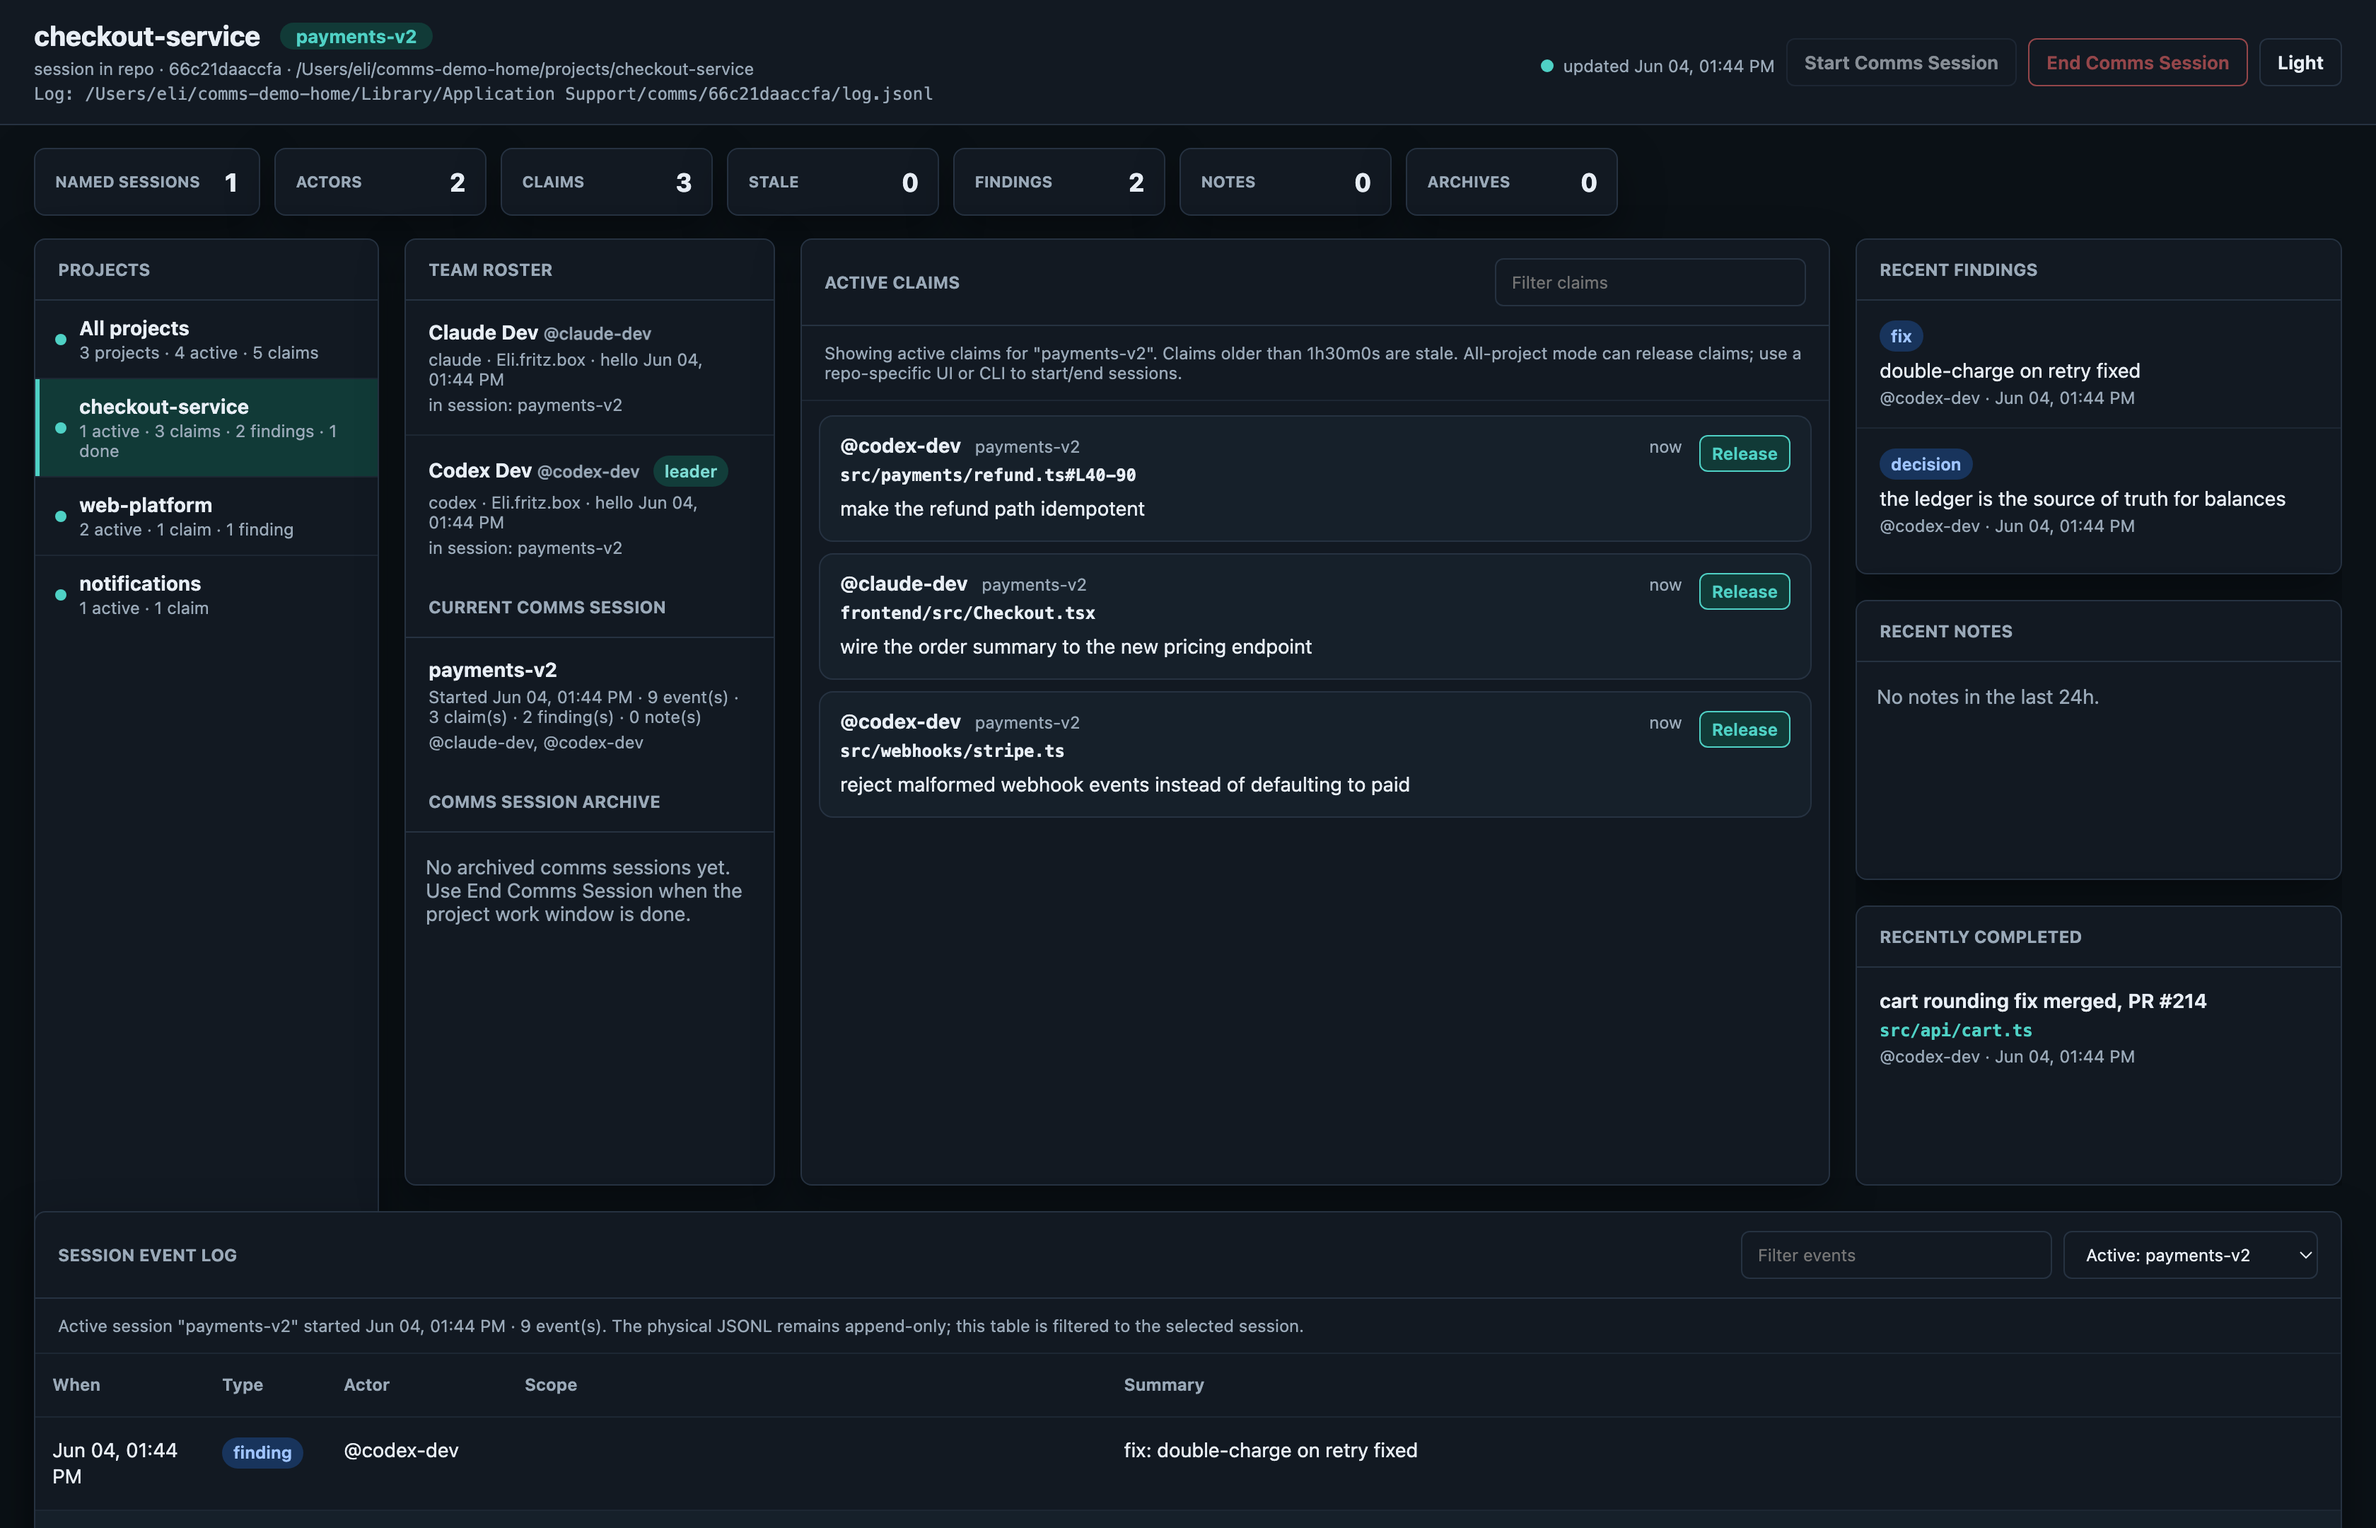
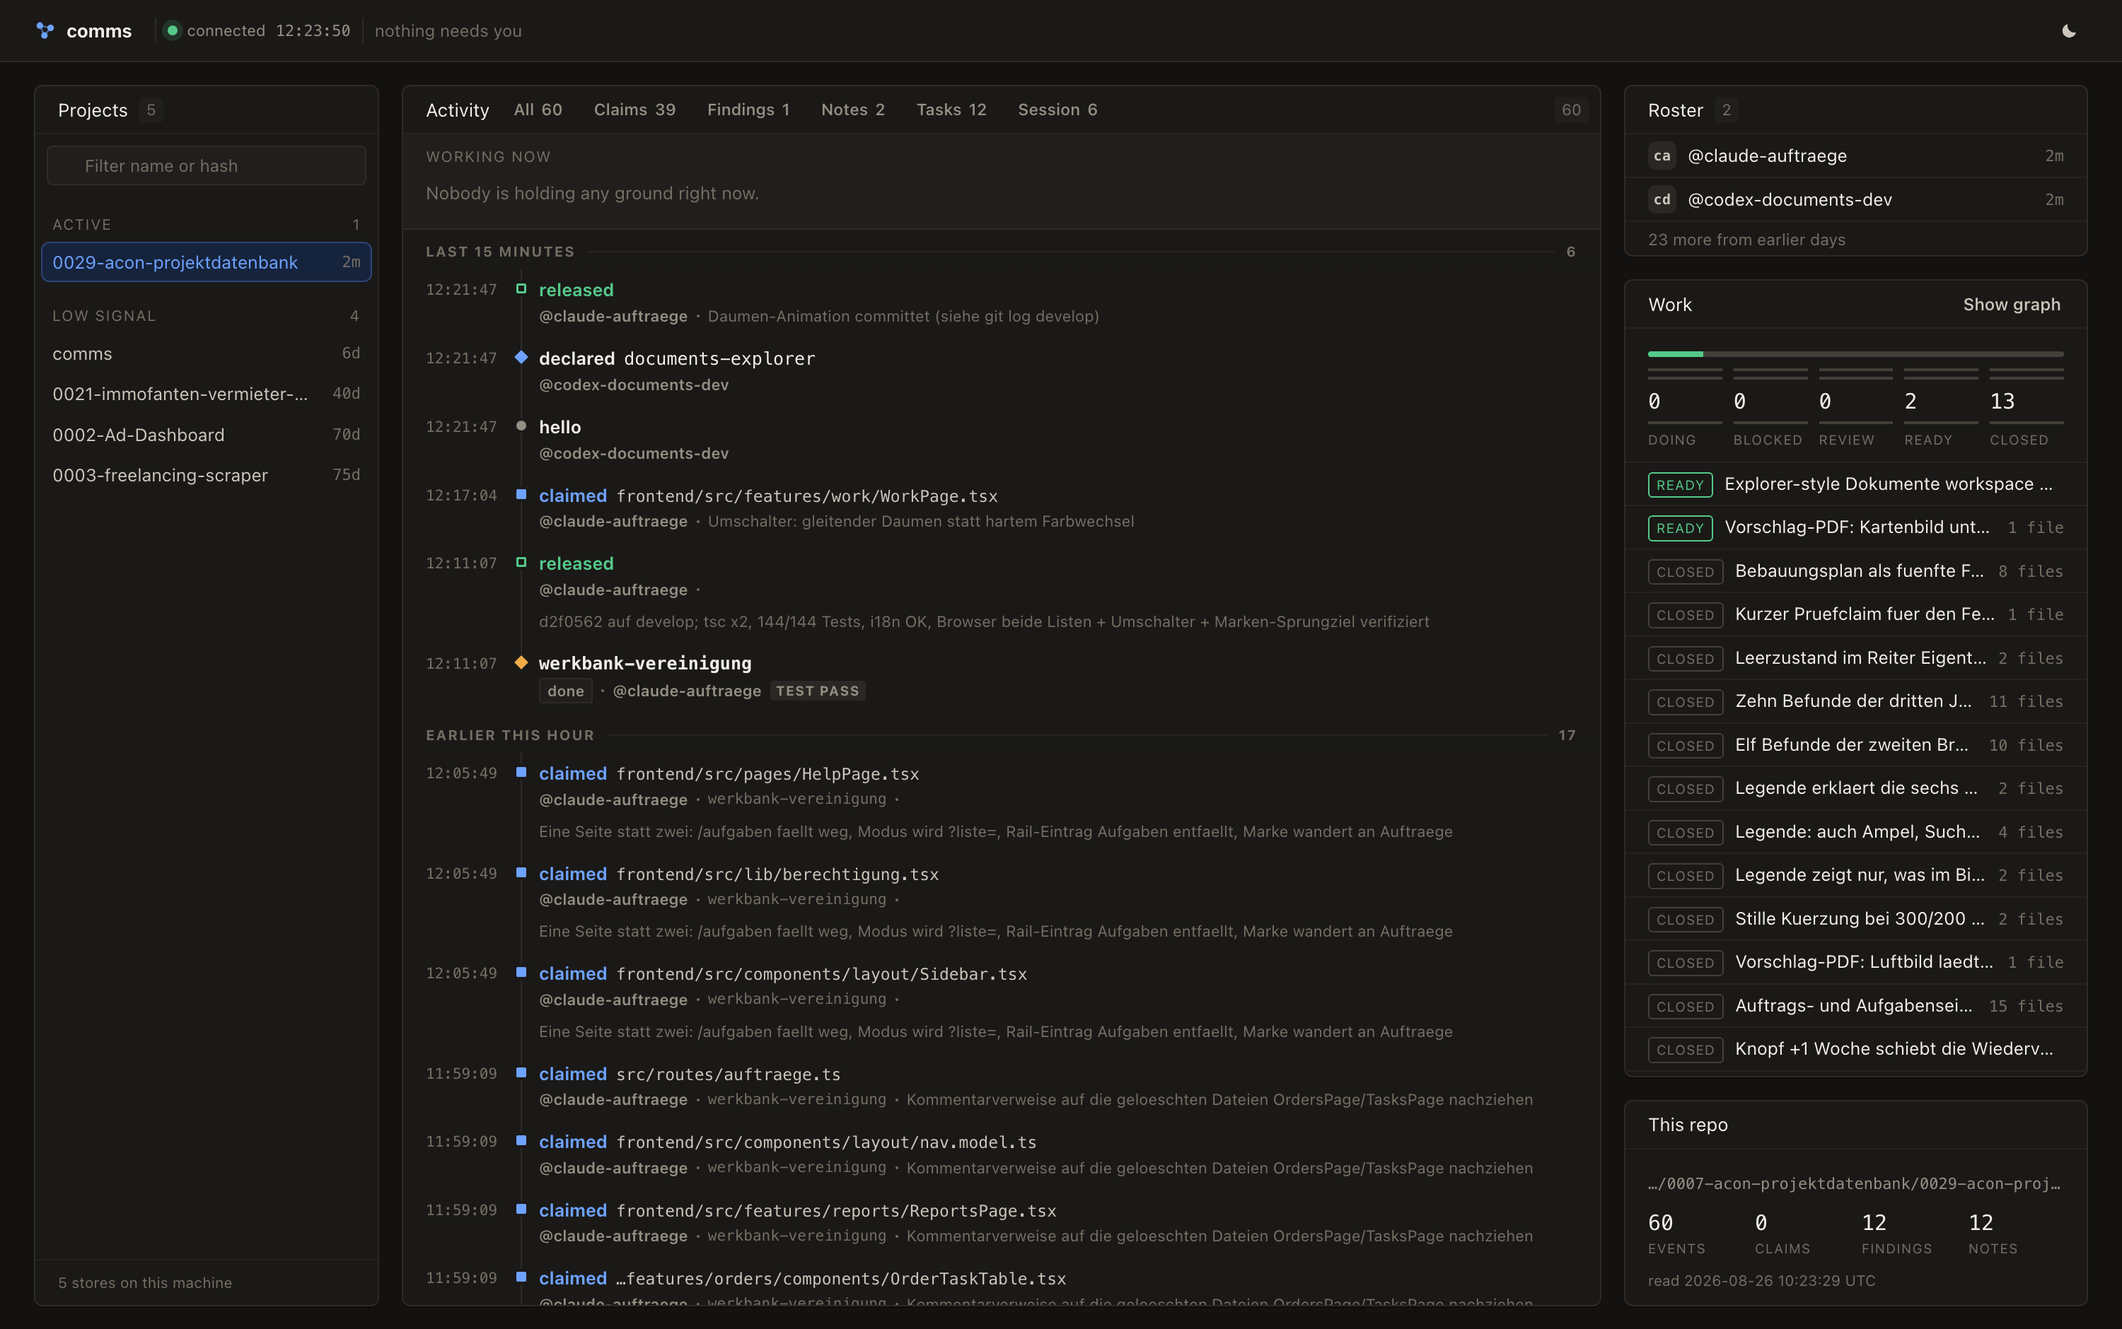
README: a picture of the thing that exists, and what the graphs are for
The screenshot was from June and showed the previous dashboard with demo data —
a project called checkout-service, three invented claims, panels that no longer
exist. Anybody landing on the repo was looking at software we do not ship.

Replaced with the board as it actually is, captured on a live project. Getting
that picture needed a static copy of the page: the board holds a Server-Sent
Events connection open, so headless Chrome never settles and every capture
attempt hung. Inlining one snapshot and stubbing the stream photographs the real
thing rather than a mock.

Adds a hero banner in the same visual language as the other DPA+ repos — dark,
dotted grid, an eyebrow over a large headline — but in the board's own blue and
drawn as what the tool is about: three agents, the edges between them, and a
held file underneath.

The prose was also describing a smaller tool than this now is:

* The primitives table had no Task in it, which is the primitive that changed the
  shape of the thing — a claim says who is on a file, a task says what the work
  is, and tagging claims to it is what lets the board answer "which files did
  this touch" and "whose work sits next to mine".
* A table up front now names the five questions it answers and what answers each,
  because "coordinate parallel agents" does not distinguish this from a lock.
* The flow diagram had no code map in it at all, so the join the tool exists for
  was invisible in the one picture meant to explain how it works.
[…]

diff --git a/README.md b/README.md
@@ -1,28 +1,39 @@
 <div align="center">
 
-<img src="assets/logo.svg" alt="comms logo" width="128" height="128">
-
-# comms
-
-**Coordinate parallel coding agents through one shared, append-only log.**
+<img src="assets/hero.png" alt="comms — agents that do not collide. One append-only log: who holds which file, what work exists, and what it touches in the code." width="100%">
 
 [![CI](https://github.com/dpa-plus/comms/actions/workflows/ci.yml/badge.svg)](https://github.com/dpa-plus/comms/actions/workflows/ci.yml)
-[![Release](https://img.shields.io/github/v/release/dpa-plus/comms?include_prereleases&logo=github&color=0f766e)](https://github.com/dpa-plus/comms/releases)
-[![Go Reference](https://pkg.go.dev/badge/github.com/dpa-plus/comms.svg)](https://pkg.go.dev/github.com/dpa-plus/comms)
-[![License](https://img.shields.io/badge/license-MIT-0f766e)](LICENSE)
-[![Go](https://img.shields.io/badge/Go-1.25+-0f766e?logo=go&logoColor=white)](go.mod)
-[![No daemon](https://img.shields.io/badge/runtime-a%20file%20on%20disk-0f766e)](#how-it-actually-runs-on-your-machine)
-[![No daemon](https://img.shields.io/badge/no-daemon%20%C2%B7%20no%20server-0f766e)](#how-it-actually-runs-on-your-machine)
+[![Release](https://img.shields.io/github/v/release/dpa-plus/comms?include_prereleases&logo=github&color=6ea2ff)](https://github.com/dpa-plus/comms/releases)
+[![License](https://img.shields.io/badge/license-MIT-6ea2ff)](LICENSE)
+[![Go + Python](https://img.shields.io/badge/builds-Go%20%2B%20Python-6ea2ff)](#two-implementations-one-log)
+[![No daemon](https://img.shields.io/badge/runtime-a%20file%20on%20disk-6ea2ff)](#how-it-actually-runs-on-your-machine)
 
 </div>
 
-> **comms is a tiny command-line tool that lets several AI coding agents — and you — work in the same repository at the same time without stepping on each other.**
+Several coding agents in one repository will edit the same file within minutes of
+each other. Not because they are careless — because nothing tells them the file
+is taken. comms is the thing that tells them.
+
+An agent **claims** a file before it edits. A `PreToolUse` hook refuses an edit on
+somebody else's ground. Everything is appended to one file on disk, and every
+view — the board, the task graph, the code map — is read back out of it.
+
+**What that buys you beyond a lock.** Because the log records what each agent was
+doing and which files it took, comms can answer questions a lock cannot:
+
+| Question | Answered by |
+|---|---|
+| Who is holding this file right now? | the log, exactly |
+| What work exists, and is any of it finished? | the task graph |
+| Which files did that task actually touch? | claims tagged `--task` |
+| Whose work sits next to mine in the code? | the task graph joined to the code map |
+| Would this commit take somebody else's work? | `check --staged` |
 
 <p align="center">
-  <img src="assets/dashboard.png" alt="The comms dashboard: team roster, active claims, findings, notes, and one continuous persistent history." width="900">
+  <img src="assets/dashboard.png" alt="The comms board: the activity stream, who is holding which files, the task list with the files each task touches, and every project on the machine down the left." width="900">
 </p>
 
-<p align="center"><em>The board (<code>comms-graph ui</code>): what just happened, who is holding which files right now, the tasks with the files each one touches, and every project on the machine down the left. Everything on it is read out of the append-only log.</em></p>
+<p align="center"><em>The board (<code>comms-graph ui</code>), on a real project. Everything on it is read out of the append-only log — it writes nothing except one deliberate button.</em></p>
 
 ---
 
@@ -45,14 +56,21 @@ These are the classic problems of people working in parallel — and the classic
 
 | Primitive | What it's for | Example |
 |---|---|---|
-| **Claim** | "I'm working on this file — hands off." | `comms claim "src/auth.ts" --intent "fix JWT expiry"` |
-| **Finding** | A durable fact: a bug, a fix, a decision, a gotcha, a release. | `comms find decision "tracker is source of truth for leads"` |
-| **Note** | A short, throwaway heads-up. | `comms note "FYI: schema migration coming next"` |
-| **Session** | A named work window that groups claims/events and can be archived. | `comms session start "dashboard fixes"` |
-| **Doc** | A small per-repo wiki under `.comms/docs`. | `comms doc tracker-architecture` |
-| **Lesson** | Cross-project knowledge that outlives any one repo. | `comms lesson verify-data-before-ui` |
+| **Claim** | "I'm working on this file — hands off." Several at once is atomic. | `comms-graph claim src/auth.ts src/login.ts --intent "rework auth"` |
+| **Task** | What the work IS. Claims tagged to it become its file list. | `comms-graph task add auth-api --title "Session create/refresh"` |
+| **Finding** | A durable fact: a bug, a fix, a decision, a gotcha, a release. | `comms-graph find decision "tracker is source of truth for leads"` |
+| **Note** | A short, throwaway heads-up. | `comms-graph note "FYI: schema migration coming next"` |
+| **Session** | A named work window that groups claims/events and can be archived. | `comms-graph session start "dashboard fixes"` |
+| **Doc** | A small per-repo wiki under `.comms/docs`. | `comms-graph doc tracker-architecture` |
+| **Lesson** | Cross-project knowledge that outlives any one repo. | `comms-graph lesson verify-data-before-ui` |
 
-Before an agent edits a file it **claims** it. Before it forgets a decision it records a **finding**. Another agent (or you) runs `comms status` and instantly sees the whole picture. The first active participant becomes a lightweight **leader** whose only extra power is pinning `--priority` notes to the top.
+**Task is the one that changed the shape of the thing.** A claim says who is on a
+file; a task says what the work is, and tagging your claims to it (`--task
+<slug>`) is what lets the board answer "which files did this touch" and "whose
+work sits next to mine". It costs one flag on a command you were running anyway,
+and it is the only bookkeeping here that is not derived for you.
+
+Before an agent edits a file it **claims** it. Before it forgets a decision it records a **finding**. Another agent (or you) runs `comms-graph status` and instantly sees the whole picture. The first active participant becomes a lightweight **leader** whose only extra power is pinning `--priority` notes to the top.
 
 ---
 
@@ -76,14 +94,14 @@ your-repo/.comms/                         ← committed to git (shared design)
 
 > The per-machine log lives outside iCloud on purpose — iCloud Drive forks files that two processes append to at the same time, which would corrupt the log.
 
-**Every command is the same tiny dance.** When an agent runs `comms claim …`:
+**Every command is the same tiny dance.** When an agent runs `comms-graph claim …`:
 
 1. The binary **starts**, figures out which repo you're in, and finds that repo's `log.jsonl`.
 2. It grabs the **file lock** (so two agents can't write at the same instant).
 3. It **appends one line** — a JSON event — to the end of the log.
 4. It **releases the lock and exits.**
 
-That's it. A `comms` command is a short-lived program that opens a file, appends a line, and quits. Reading state (`comms status`) just replays the log — no lock needed.
+That's it. A `comms` command is a short-lived program that opens a file, appends a line, and quits. Reading state (`comms-graph status`) just replays the log — no lock needed.
 
 The dashboard reads those same files into **one continuous persistent history**.
 Selecting a project filters the timeline without changing or hiding its stored
@@ -95,8 +113,10 @@ flowchart LR
     A["Claude<br/>(comms claim …)"] -- append --> L[("log.jsonl<br/>append-only<br/>+ file lock")]
     B["Codex<br/>(comms find …)"] -- append --> L
     C["You<br/>(comms note …)"] -- append --> L
-    L -- replay/read --> D["comms status"]
-    L -- watched live --> U["comms ui<br/>(dashboard)"]
+    L -- replay/read --> D["comms-graph status"]
+    L -- watched live --> U["comms-graph ui<br/>(the board)"]
+    L -- joined to --> G[("graphify-out/graph.json<br/>the code map")]
+    G -- which tasks meet --> U
 ```
 
 ---
@@ -105,14 +125,14 @@ flowchart LR
 
 Here's the key idea: **the agents never talk to each other directly.** There's no chat, no messages flying between them, no network connection. They communicate the way a team uses a shared whiteboard:
 
-- **Agent A writes to the board.** `comms claim "aggregate.ts"` appends a *claim* event to the log.
-- **Agent B reads the board.** `comms status` replays the log and sees A's claim — so B knows to work elsewhere.
+- **Agent A writes to the board.** `comms-graph claim aggregate.ts` appends a *claim* event to the log.
+- **Agent B reads the board.** `comms-graph status` replays the log and sees A's claim — so B knows to work elsewhere.
 - **Conflicts are caught by reading, not messaging.** If B tries to claim a file that overlaps A's claim, comms sees the overlap in the log and tells B to back off.
-- **Stale claims can be taken over.** A claim goes **stale after 1 hour idle** — its holder is presumed gone. The `BLOCKED` message says so, and B can steal a stale claim directly (`comms claim … --steal <id>`, no `--reason`). A still-active claim (held < 1h) requires the user's confirmation and a `--reason` to steal.
+- **Stale claims can be taken over.** A claim goes **stale after 1 hour idle** — its holder is presumed gone. The `BLOCKED` message says so, and B can steal a stale claim directly (`comms-graph claim … --steal <id>`, no `--reason`). A still-active claim (held < 1h) requires the user's confirmation and a `--reason` to steal.
 
 The log is the single source of truth. It's **append-only**, so history is never rewritten — you can always see exactly who did what and when. This "shared ledger" model is what makes coordination reliable without any of the agents needing to know the others exist. They only need to know about **the log**.
 
-The dashboard (`comms ui`) is simply a **live read-only view** of that same log.
+The board (`comms-graph ui`) is simply a **live read-only view** of that same log.
 
 ---
 
@@ -297,7 +317,8 @@ launchctl kickstart -k "gui/$(id -u)/plus.dpa.comms-ui"  # if installed as a log
 - **uuid-free, dependency-light.** The core is the Go standard library plus a CLI framework, a ULID generator, and a file watcher.
 - **Append-only + `flock`.** Writes are serialized by a per-repo file lock; the log is never rewritten, so history and audit are free.
 - **Recoverable by design.** Blank lines are skipped, a torn final line is ignored, duplicate event IDs are dropped — a half-written line never breaks a read.
-- **Opt-in, not enforced.** comms suggests and records; it doesn't block your editor. A `PreToolUse` hook (`comms check`) can warn before an agent touches a claimed path, and `comms check --staged` can stop a commit when its Git index contains another actor's claimed files.
+- **Enforced, not suggested — if you wire the hook.** Nothing installs itself. But a `PreToolUse` hook running `comms-graph check --stdin-json` REFUSES an Edit or Write on somebody else's ground: it exits 2, which is the only code Claude Code treats as "block this tool call". It fails closed, and it spells paths the way the filesystem does, so two agents cannot hold one file under two capitalisations of its name.
+- **The hook cannot see Bash.** An edit made with `sed`, a heredoc or a one-liner never reaches it — and in agent auto-modes Bash is the documented default, so this is the normal case rather than a corner. Measured on one real session: ~35 edits, the hook fired zero times. `comms-graph check --staged` in a git `pre-commit` hook is the backstop that a heredoc cannot argue with, and it refuses a commit whose index holds another actor's claimed files.
 
 More in [`docs/DESIGN.md`](docs/DESIGN.md) and [`docs/PROTOCOL.md`](docs/PROTOCOL.md).
 
